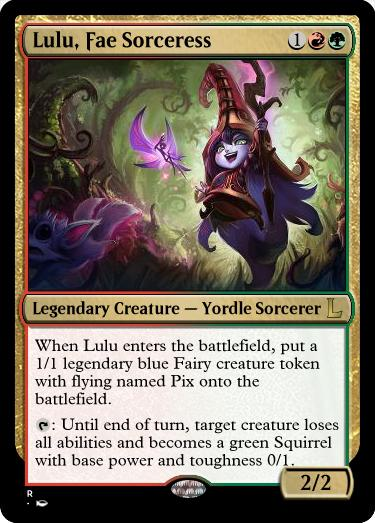
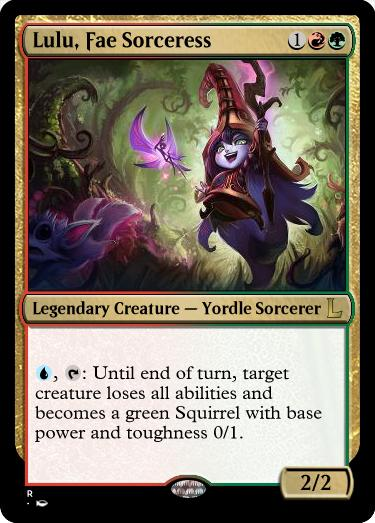
Added a few new proto designs for champions

Changed region(s): [[0.088, 0.6424, 0.9093, 0.9178]]

diff --git a/README.md b/README.md
@@ -31,6 +31,5 @@ These champions still need card designs. Feel free to suggest options.
 * Skarner (?)
 * Swain (WB)
 * Taric (Waiting for rework)
-* Tristana (R)
 * Trundle (RG)
 * Volibear (RG)
